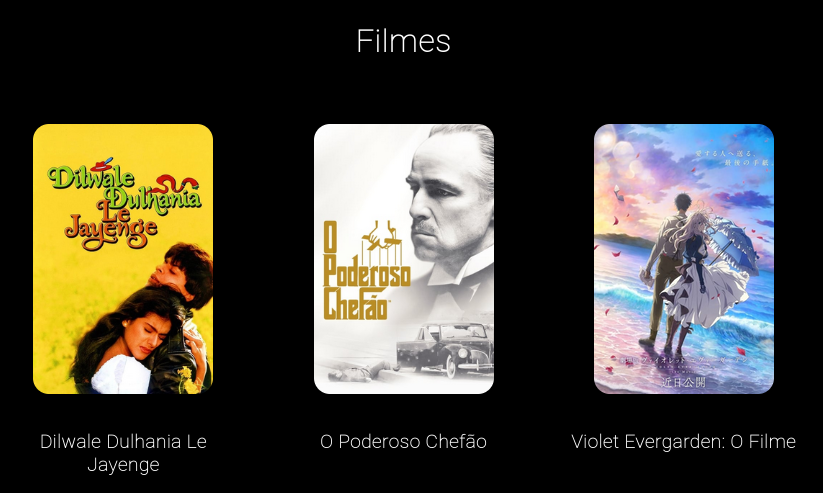
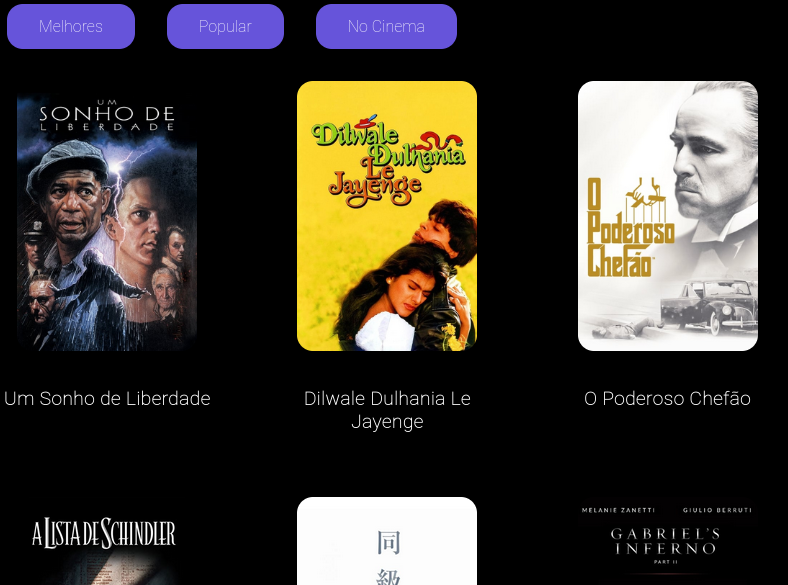
adc botoes

diff --git a/src/pages/Details/Details.jsx b/src/pages/Details/Details.jsx
@@ -1,36 +1,38 @@
 import { Container } from "./style"
 
-import { useEffect } from "react"
-import { useState } from "react"
-import {Link, useParams } from "react-router-dom"
+import { useEffect, useState } from "react"
+import { Link, useParams } from "react-router-dom"
 import API_KEY from "../../config/API_KEY"
 import PATH_IMG from "../../config/PATH_IMG"
 
-export default function Details () {
+export default function Details() {
 
   const { id } = useParams()
+  const paras = useParams()
   const [movie, setMovie] = useState({})
+  const [genero, setGenero] = useState([])
 
   useEffect(() => {
 
+      console.log(paras)
+
     fetch(`https://api.themoviedb.org/3/movie/${id}?api_key=${API_KEY()}&language=pt-BR&page=1`)
-    .then(response => response.json())
-    .then(data => {
+      .then(response => response.json())
+      .then(data => {
+        setGenero(data.genres.map(gen => {
+          return gen.name
+        }))
 
+        const movie = {
+          id,
+          title: data.title,
+          sinopse: data.overview,
+          image: `${PATH_IMG()}${data.poster_path}`,
+          data_lancamento: data.release_date,
+        }
 
-      const movie = {
-        id,
-        title: data.title,
-        sinopse: data.overview,
-        image: `${PATH_IMG()}${data.poster_path}`,
-        data_lancamento: data.release_date
-      }
-      
-      console.log(data)
-      setMovie(movie)
-    })
-
-    
+        setMovie(movie)
+      })
 
 
   }, [id])
@@ -41,10 +43,11 @@ export default function Details () {
         <img src={movie.image} alt={movie.title} />
         <div className="details">
           <h1>{movie.title}</h1>
+          <span>{genero.join(' - ')}</span>
           <span>Sinopse: {movie.sinopse}</span>
           <span className="release-date">Data Lançamento: {movie.data_lancamento}</span>
           <Link to="/" ><button>Voltar</button></Link>
-          
+
         </div>
       </div>
     </Container>

diff --git a/src/pages/OtherPages/Popular.jsx b/src/pages/OtherPages/Popular.jsx
@@ -1,17 +1,17 @@
 import { Container, Movie, MovieList } from "../Home/style"
 import { useState, useEffect } from "react"
+import { Link } from "react-router-dom"
 import API_KEY from "../../config/API_KEY"
 import PATH_IMG from "../../config/PATH_IMG"
-import { Link } from "react-router-dom"
 import LinkRotas from "../../components/LinkRotas/LinkRotas"
 
-export default function Home() {
+export default function Popular() {
 
   const [movies, setMovies] = useState([])
 
   useEffect(() => {
 
-    fetch(`https://api.themoviedb.org/3/movie/top_rated?api_key=${API_KEY()}&language=pt-BR&page=1`)
+    fetch(`https://api.themoviedb.org/3/movie/popular?api_key=${API_KEY()}&language=pt-BR&page=1`)
       .then(response => response.json())
       .then(data => {
         setMovies(data.results)
@@ -20,8 +20,9 @@ export default function Home() {
 
   return (
     <Container>
+      
       <LinkRotas />
-
+      
       <MovieList>
 
         {movies.map(movie => {

diff --git a/src/pages/OtherPages/Recentes.jsx b/src/pages/OtherPages/Recentes.jsx
@@ -1,27 +1,27 @@
 import { Container, Movie, MovieList } from "../Home/style"
 import { useState, useEffect } from "react"
+import { Link } from "react-router-dom"
 import API_KEY from "../../config/API_KEY"
 import PATH_IMG from "../../config/PATH_IMG"
-import { Link } from "react-router-dom"
 import LinkRotas from "../../components/LinkRotas/LinkRotas"
 
-export default function Home() {
+export default function Recentes() {
 
   const [movies, setMovies] = useState([])
 
   useEffect(() => {
 
-    fetch(`https://api.themoviedb.org/3/movie/top_rated?api_key=${API_KEY()}&language=pt-BR&page=1`)
+    fetch(`https://api.themoviedb.org/3/movie/upcoming?api_key=${API_KEY()}&language=pt-BR`)
       .then(response => response.json())
       .then(data => {
         setMovies(data.results)
+        console.log(data)
       })
   }, [])
 
   return (
     <Container>
       <LinkRotas />
-
       <MovieList>
 
         {movies.map(movie => {

diff --git a/src/index.js b/src/index.js
@@ -6,14 +6,17 @@ import { BrowserRouter, Route, Routes } from 'react-router-dom';
 
 import Home from './pages/Home/Home';
 import Details from './pages/Details/Details';
+import Popular from './pages/OtherPages/Popular'
+import Recentes from './pages/OtherPages/Recentes'
 
 ReactDOM.render(
   <BrowserRouter>
   <Routes>
     <Route path="/" element={ <Home />}/>
     <Route path="/details/:id" element={ <Details />}/>
-  </Routes>
-   
+    <Route path="/popular/" element={ <Popular />} />
+    <Route path="/recentes/" element={ <Recentes />} />
+  </Routes> 
   </BrowserRouter>,
   document.getElementById('root')
 );

diff --git a/src/components/LinkRotas/style.js b/src/components/LinkRotas/style.js
@@ -1,0 +1,26 @@
+import styled from 'styled-components'
+
+export const Div = styled.div`
+  
+  display: flex;
+  flex-direction: row;
+  margin-bottom: 2rem;
+
+
+  button {
+    background-color: #6654da;
+    border: none;
+    cursor: pointer;
+    border-radius: 1rem;
+    color: #fff;
+    margin: 1rem 1rem 0;
+    padding: 0.8rem 2rem;
+    font-size: 100%;
+    transition: all 0.3s;
+  }
+
+  button:hover {
+    background: #5848c2;
+  }
+
+`

diff --git a/src/components/LinkRotas/LinkRotas.jsx b/src/components/LinkRotas/LinkRotas.jsx
@@ -1,0 +1,15 @@
+
+
+import { Link } from "react-router-dom"
+import { Div } from './style'
+
+
+export default () => {
+  return (
+    <Div>
+      <Link to={'/'}><button>Melhores</button></Link>
+      <Link to={'/popular/'}><button>Popular</button></Link>
+      <Link to={'/recentes/'}><button>No Cinema</button></Link>
+    </Div>
+  )
+}

diff --git a/src/pages/Home/style.js b/src/pages/Home/style.js
@@ -1,11 +1,10 @@
 import styled from 'styled-components'
 
 export const Container = styled.div`
-  h1 {
+    h1 {
     text-align: center;
     margin: 4rem 0;
-  }
-
+    }
 `;
 
 export const MovieList = styled.ul`

diff --git a/README.md b/README.md
@@ -15,7 +15,7 @@ The page will reload when you make changes.\
 You may also see any lint errors in the console.
 
 
-<img width="500" src="other/img/inicio.png"> <img src="other/img/film.png" widht="500"> 
+<img width="500" src="other/img/inicio.png"> <img src="other/img/film.png" width="500"> 
 
 
 ### Cricar Arquivo
